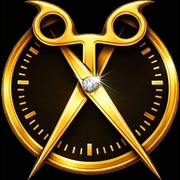
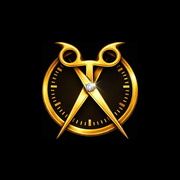
fix(PWA): ícones com margem interna (any + maskable) para launcher Android
Made-with: Cursor

diff --git a/app/api/public/pwa-manifest-client/route.ts b/app/api/public/pwa-manifest-client/route.ts
@@ -26,10 +26,22 @@ export async function GET(req: Request) {
     orientation: "portrait-primary",
     icons: [
       {
+        src: "/icon-192.png",
+        sizes: "192x192",
+        type: "image/png",
+        purpose: "any",
+      },
+      {
         src: "/icon.png",
         sizes: "512x512",
         type: "image/png",
-        purpose: "any maskable",
+        purpose: "any",
+      },
+      {
+        src: "/icon-maskable-512.png",
+        sizes: "512x512",
+        type: "image/png",
+        purpose: "maskable",
       },
     ],
   }
